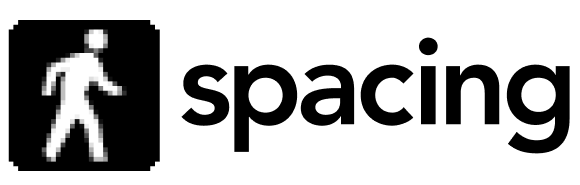
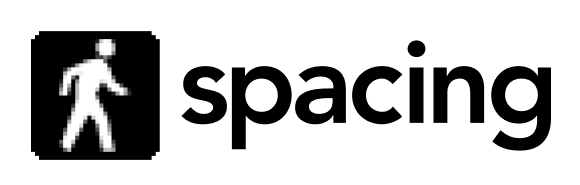
update client img -slices

Changed region(s): [[0.3103, 0.3514, 0.9931, 0.8378], [0.0, 0.1081, 0.2793, 0.9459], [0.6828, 0.1892, 0.7759, 0.3243]]

diff --git a/index.html b/index.html
@@ -267,7 +267,7 @@
                     </div>
                     <div class="row">
                         <div class="col-lg-2 col-md-3 col-sm-4 col-6" id="logo">
-                            <a href="https://superlinked.com/" target="_blank"><img  alt="Superlinked Logo"
+                            <a href="https://superlinked.com/" target="_blank"><img alt="Superlinked Logo"
                                     src="superlinked-slice.png" /></a>
                         </div>
                         <div class="col-lg-2 col-md-3 col-sm-4 col-6" id="logo">

diff --git a/index.css b/index.css
@@ -239,9 +239,8 @@ img {
     font-style: italic;
 }
 
-#logo {
-    display: grid;
-    padding: 1vw 1vw;
+.logo {
+    padding: 10em;
 }
 
 
@@ -254,11 +253,6 @@ img.things,
 img.thing {
     width: 8em;
     margin: .25em;
-}
-
-.jhu {
-    width: 5em;
-    margin: .5em;
 }
 
 #portfolio,
